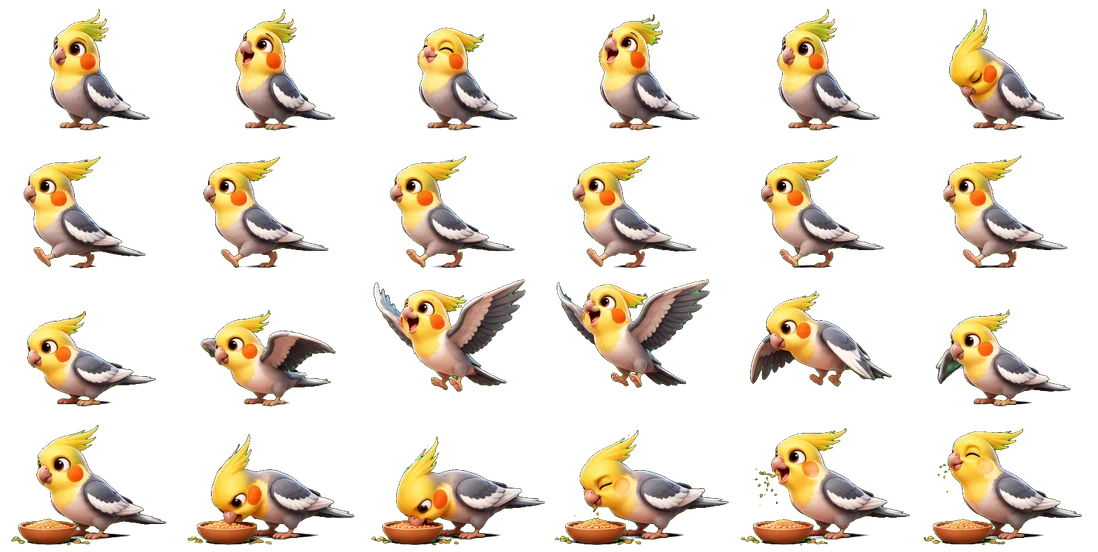
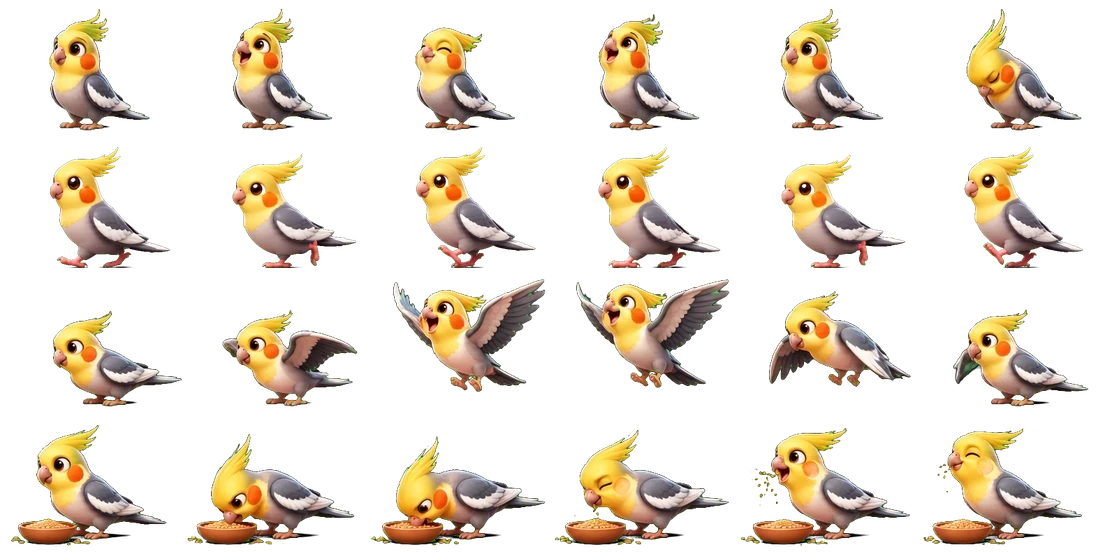
צ'אט: התוכי הולך הלוך וחזור עם מחזור הליכה חדש ומנוחות, פריימים מיושרים
Claude-Session: https://claude.ai/code/session_017uWVXJvGJwQzyMEhW6iefH

diff --git a/js/parrot.js b/js/parrot.js
@@ -13,7 +13,7 @@ st.textContent='#pk{position:absolute;left:0;bottom:100%;margin-bottom:-4px;widt
 +'#pk.r .sp{transform:scaleX(-1)}'
 +'#pk.fly{position:fixed;left:0;top:0;bottom:auto;margin:0;z-index:40}#pk.fly .hit{pointer-events:none}'
 +'#pk .hit{position:absolute;left:20%;right:14%;top:16%;bottom:0;pointer-events:auto;touch-action:none;cursor:pointer;-webkit-tap-highlight-color:transparent}'
-+'#pk.walk .sp{background-position-y:'+(-CH)+'px;animation:pkw .75s steps(6,end) infinite}'
++'#pk.walk .sp{background-position-y:'+(-CH)+'px;animation:pkw .72s steps(6,end) infinite}'
 +'@keyframes pkw{from{background-position-x:0}to{background-position-x:'+(-CW*6)+'px}}'
 +'@media print{#pk{display:none!important}}';
 document.head.appendChild(st);
@@ -35,7 +35,7 @@ function play(steps,done){
     var s=steps[i++]; frame(s[0],s[1]); setTimeout(go,s[2]);
   })();
 }
-function end(){ busy=false; eating=false; next(rnd(2500,7000)); }
+function end(){ busy=false; eating=false; next(rnd(800,2500)); }
 function chirp(){ busy=true; play([[0,1,230],[0,3,230],[0,1,230],[0,3,230],[0,0,200]],end); }
 function wink(){ busy=true; play([[0,2,1000]],end); }
 function preen(){ busy=true; play([[0,5,1500]],end); }
@@ -54,15 +54,25 @@ function stopWalk(){
     pk.classList.remove('walk'); setX(nx,0); stand();
   }
 }
-function walk(){
+function walkTo(tx,after){
   busy=true;
-  var min=6,max=Math.max(min+40,form.clientWidth-CW-6),tx=rnd(min,max);
-  if(Math.abs(tx-X)<50)tx=X<(min+max)/2?Math.min(max,X+90):Math.max(min,X-90);
-  var dist=Math.abs(tx-X); if(dist<10){ end(); return; }
-  var ms=dist/32*1000;
+  var dist=Math.abs(tx-X); if(dist<10){ after(); return; }
+  var ms=dist/36*1000;
   pk.classList.toggle('r',tx>X); sp.style.backgroundPosition='';
   pk.classList.add('walk'); void pk.offsetWidth; setX(tx,ms);
-  walkT=setTimeout(function(){ pk.classList.remove('walk'); stand(); end(); },ms+30);
+  walkT=setTimeout(function(){ pk.classList.remove('walk'); stand(); after(); },ms+30);
+}
+/* סיור: הולך לקצה השני של המסך, לפעמים עוצר באמצע הדרך, ושם מנוח */
+function patrol(){
+  var min=6,max=Math.max(min+40,form.clientWidth-CW-6),far=X<(min+max)/2?rnd(max-50,max):rnd(min,min+50);
+  var mid=Math.random()<.3, tx=mid?X+(far-X)*rnd(.35,.7):far;
+  walkTo(tx,function(){ busy=false; next(mid?rnd(300,900):rnd(600,1800)); });
+}
+/* מנוחה: עומד בשקט או מצייץ, קורץ ומנקה נוצות */
+function rest(){
+  busy=true; var r=Math.random();
+  if(r<.35){ stand(); var my=seq; setTimeout(function(){ if(my===seq&&!flying&&!eating)end(); },rnd(3500,7000)); }
+  else if(r<.6)chirp(); else if(r<.8)wink(); else preen();
 }
 /* טיסה: מהקצה של שדה הכתיבה, דרך כמה נקודות במסך, ונחיתה חזרה על הקצה */
 var FL=[2,3,2,3,4,3];
@@ -99,7 +109,7 @@ function fly(vx,vy){
 function tick(){
   if(document.visibilityState!=='visible'||!form.getClientRects().length||busy){ next(3000); return; }
   var r=Math.random();
-  if(r<.3)chirp(); else if(r<.45)wink(); else if(r<.6)preen(); else if(r<.85)walk(); else flap();
+  if(r<.08)flap(); else if(r<.30)rest(); else patrol();
 }
 function next(ms){ clearTimeout(T); T=setTimeout(tick,ms); }
 /* לחיצה = ציוץ וכנפיים, לחיצה ארוכה = אוכל */
@@ -126,5 +136,5 @@ form.addEventListener('submit',function(){
   var t=document.getElementById('text');
   if(t&&t.value.trim()&&!eating&&!flying){ stopWalk(); flap(); }
 },true);
-setX(X,0); stand(); next(rnd(2000,4000));
+setX(X,0); stand(); next(rnd(1500,3000));
 })();

diff --git a/sw.js b/sw.js
@@ -1,5 +1,5 @@
 // Service worker מינימלי: שומר את קבצי המעטפת לפתיחה מהירה. נתונים תמיד מהרשת.
-const CACHE = 'habayit-p204';
+const CACHE = 'habayit-p206';
 const SHELL = ['./js/companion.js','./js/dog.js','./js/giraffe.js','./js/parrot.js','./icons/parrot/parrot.webp','./icons/giraffe/walk.webp','./js/bird.js','./js/spider.js','./','./index.html','./login.html','./signup.html','./google-setup.html','./privacy.html','./terms.html','./js/family.js','./css/style.css','./js/splash.js','./splash.jpg','./splash-en.jpg','./splash-family.jpg','./splash.jpg','./js/config.js','./js/supabase.js','./js/common.js','./js/icons.js','./js/generate.js','./js/points.js','./tasks.html','./task.html','./admin.html','./report.html','./history.html','./chat.html','./ai.html','./lessons.html','./chef-splash.jpg','./teacher-splash.jpg','./calendar.html','./requests.html','./meds.html','./info.html','./feedback.html','./guide.html','./status.html','./bonus.html','./js/gamesplash.js','./js/bonuspopup.js','./bonus-splash.jpg','./bonus-splash-en.jpg','./fridge.html','./shop.html','./outing.html','./js/outings.js', './important.html', './js/important.js', './js/push.js','./js/bonus.js','./game.html','./games.html','./checkers.html','./battleship.html','./poker.html','./backgammon.html','./blackjack.html','./stratego.html','./tetris.html','./aquarium.html','./conflicts.html','./tetris-bg.jpg','./tetris-splash.jpg','./js/strategopage.js','./stratego-bg.jpg','./stratego-water.jpg','./stratego-splash.jpg','./js/bjpage.js','./js/bgpage.js','./js/pokerpage.js','./js/bspage.js','./js/checkerspage.js','./js/guest.js','./js/checkers-rules.js','./js/gamepage.js','./js/game.js','./game-bg.jpg','./js/events.js','./js/weather.js','./js/countries.js','./icons/weather/sun.webp','./icons/weather/partly.webp','./icons/weather/cloud.webp','./icons/weather/rain.webp','./icons/weather/storm.webp','./icons/weather/fog.webp','./icons/weather/snow.webp','./icons/weather/bird1.webp','./icons/weather/bird2.webp','./icons/weather/sky-sun.webp','./icons/weather/sky-partly.webp','./icons/weather/sky-cloud.webp','./icons/weather/sky-rain.webp','./icons/weather/sky-storm.webp','./icons/weather/sky-fog.webp','./icons/weather/sky-snow.webp','./icons/weather/sky-night.webp','./icons/weather/moon.webp','./icons/weather/moon-cloud.webp','./icons/weather/sea-bg.webp','./icons/weather/sea-waves.webp','./icons/weather/surf1.webp','./icons/weather/surf2.webp','./icons/weather/sit.webp','./icons/weather/sky-dawn.webp','./icons/weather/sky-dusk.webp','./icons/weather/sea-night.webp','./icons/weather/sea-dusk.webp','./js/i18n.js','./manifest.webmanifest','./logo.png','./login-bg.jpg','./logo-text.png'];
 // כל קובץ נשמר בנפרד וללא כפילויות: קובץ חסר או כפול לא מפיל את ההתקנה של ה-Service Worker
 self.addEventListener('install', e => { e.waitUntil(caches.open(CACHE).then(c => Promise.allSettled([...new Set(SHELL)].map(u => c.add(u))))); self.skipWaiting(); });
